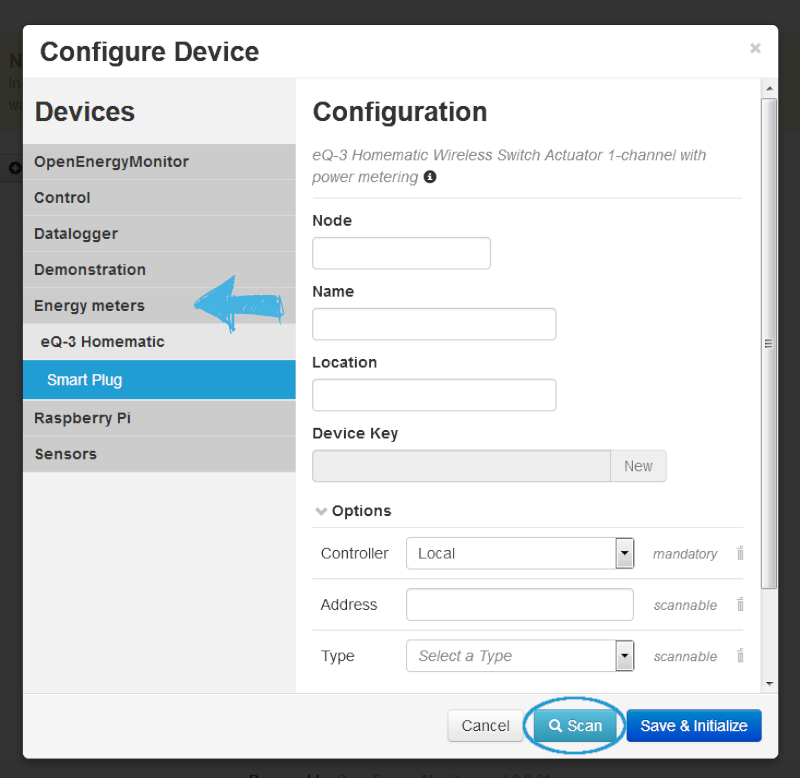
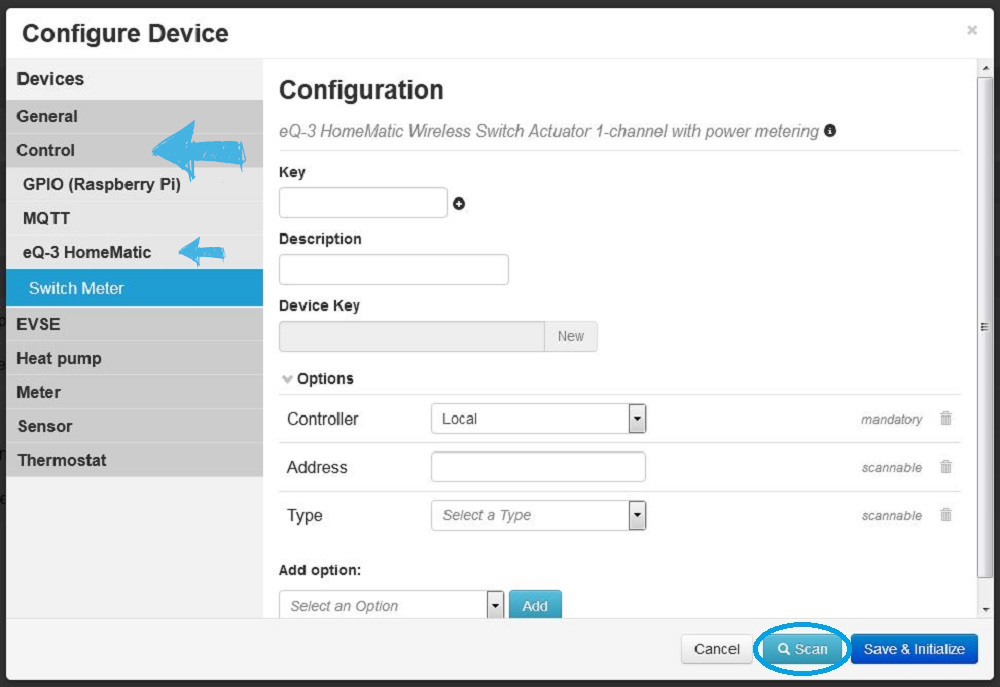
Updated Pictures, corrected typos

diff --git a/docs/FirstSteps.md b/docs/FirstSteps.md
@@ -69,7 +69,7 @@ Make sure to plug it into a socket first, open and log in to your local [emoncms
 
 ![device config](img/device-config.jpg)
 
-Configure your eQ-3 EnergyMeter device: **Energy meters > eQ-3 HomeMatic > Smart Plug** and press the **Scan** button to start the pairing process.
+Configure your eQ-3 EnergyMeter device: **Control > eQ-3 HomeMatic > Smart Plug** and press the **Scan** button to start the pairing process.
 
 The pairing process will continue for 60 seconds, allowing to go to the HomeMatic device and press its button. Hold the button for at least four seconds. The LED should start flashing slowly (one time per second) yellow. That means, that the teach-in procedure is in progress. After returning back to the emoncms site, it should show something like this:
 
@@ -81,7 +81,7 @@ This process correlates to all available HomeMatic device types and can be used 
 
 ## Control
 
-To switch the Smart Plug, open the *Things* view and turn the plug on/off as you like. Additionally, the listed thing shows the current power of the plug, in this case 23W.
+To switch the Smart Plug, open the *Things* view and turn the plug on/off as you like. Additionally, the listed thing shows the current power of the plug, in this case 0W.
 
 ![device thing](img/device-thing.jpg)
 
